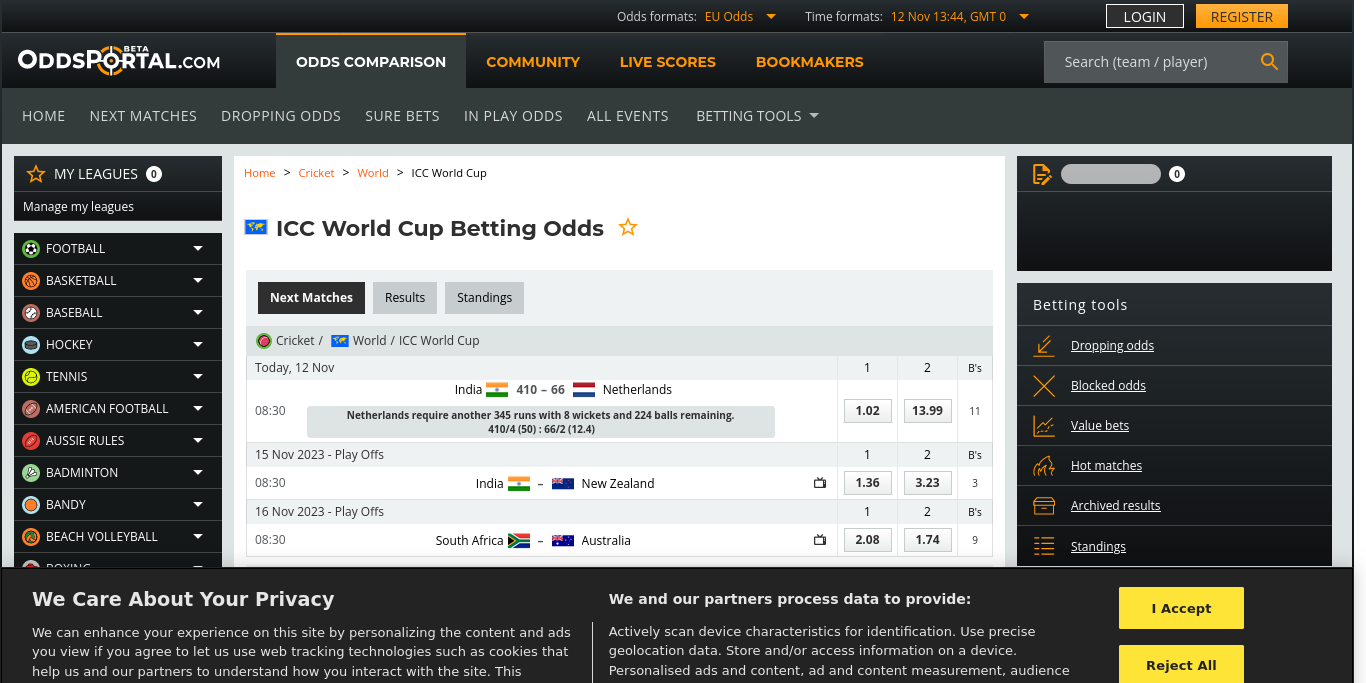
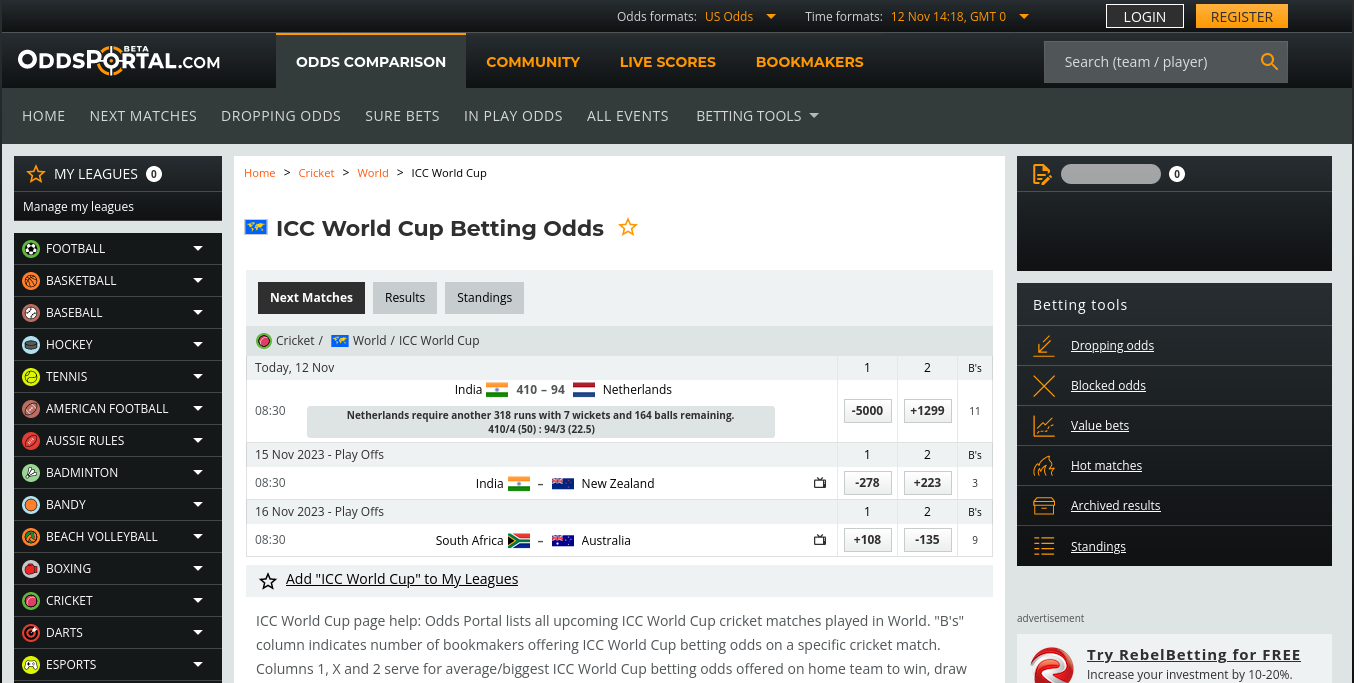
Update Data Sun Nov 12 14:18:51 UTC 2023

diff --git a/src/nonview/constants/VERSION.js b/src/nonview/constants/VERSION.js
@@ -1,4 +1,4 @@
 // Auto-generated by javascript_version.py
-export const VERSION_UT = 1699796701;
+export const VERSION_UT = 1699798732;
 export const VERSION_DATETIME = new Date(VERSION_UT * 1_000);
 export const LAST_COMMIT_MESSAGE = "Updated 📊Data";

diff --git a/src/nonview/data/ODI_ID_TO_WINNER.js b/src/nonview/data/ODI_ID_TO_WINNER.js
@@ -1,6 +1,6 @@
 // Auto Generated by UpdateODIIDToWinner
 // https://www.cricbuzz.com/cricket-series/6732/icc-cricket-world-cup-2023/matches
-// 2023-11-12 19:14:43 +0000
+// 2023-11-12 19:48:23 +0000
 
 import { TEAM } from "../core/Team.js";
 

diff --git a/src/nonview/data/TEAM1_ID_TO_TEAM2_ID_TO_ODDS_PAIR.js b/src/nonview/data/TEAM1_ID_TO_TEAM2_ID_TO_ODDS_PAIR.js
@@ -1,6 +1,6 @@
 // Auto Generated by UpdateTeam1IDToTeam2IDToOddsPair
 // https://www.oddsportal.com/cricket/world/icc-world-cup/
-// 2023-11-12 19:14:56 +0000
+// 2023-11-12 19:48:44 +0000
 
 import { TEAM } from "../core/Team.js";
 

diff --git a/src/nonview/data/POINTS_TABLE.js b/src/nonview/data/POINTS_TABLE.js
@@ -1,6 +1,6 @@
 // Auto Generated by UpdatePointsTable
 // https://www.cricketworldcup.com/standings
-// 2023-11-12 19:14:50 +0000
+// 2023-11-12 19:48:35 +0000
 
 import { TEAM } from "../core/Team.js";
 
